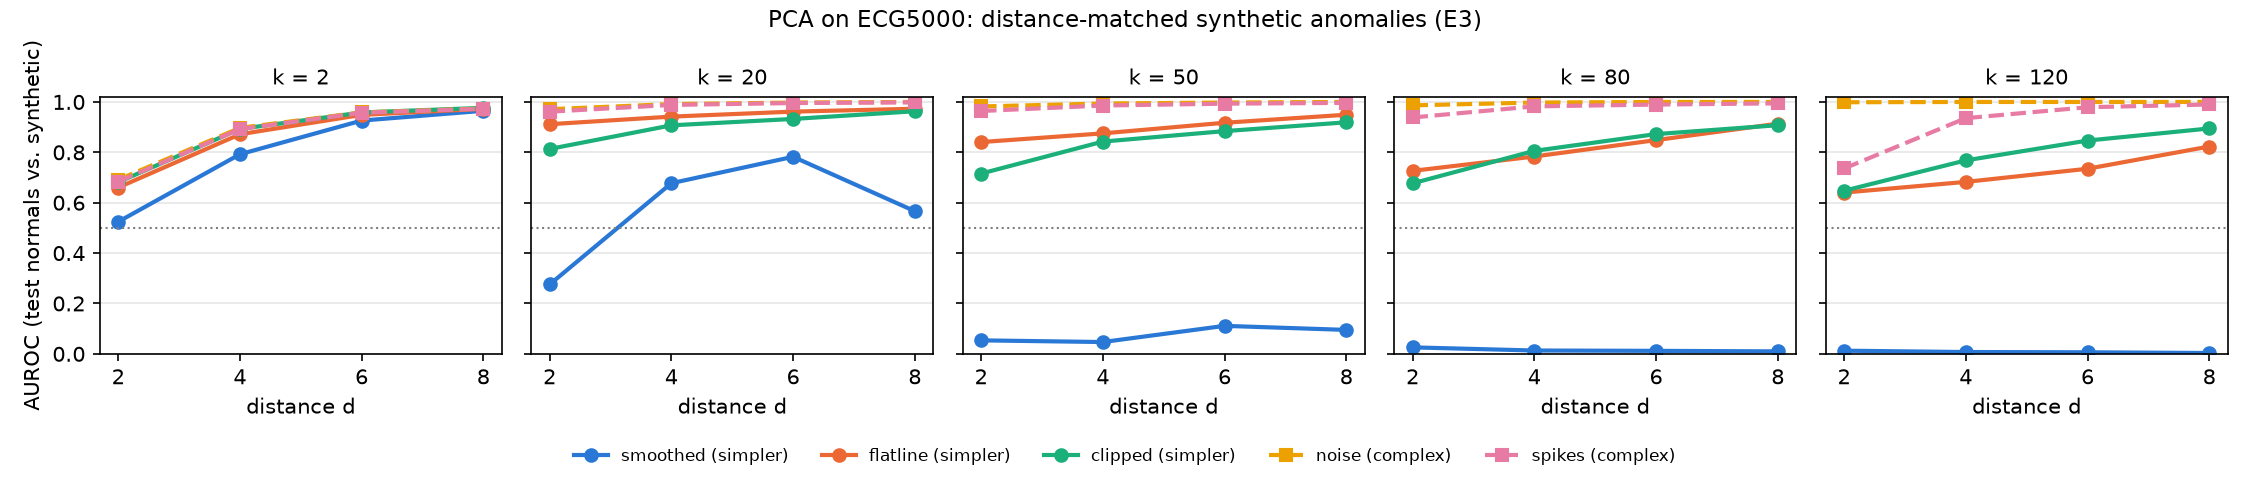
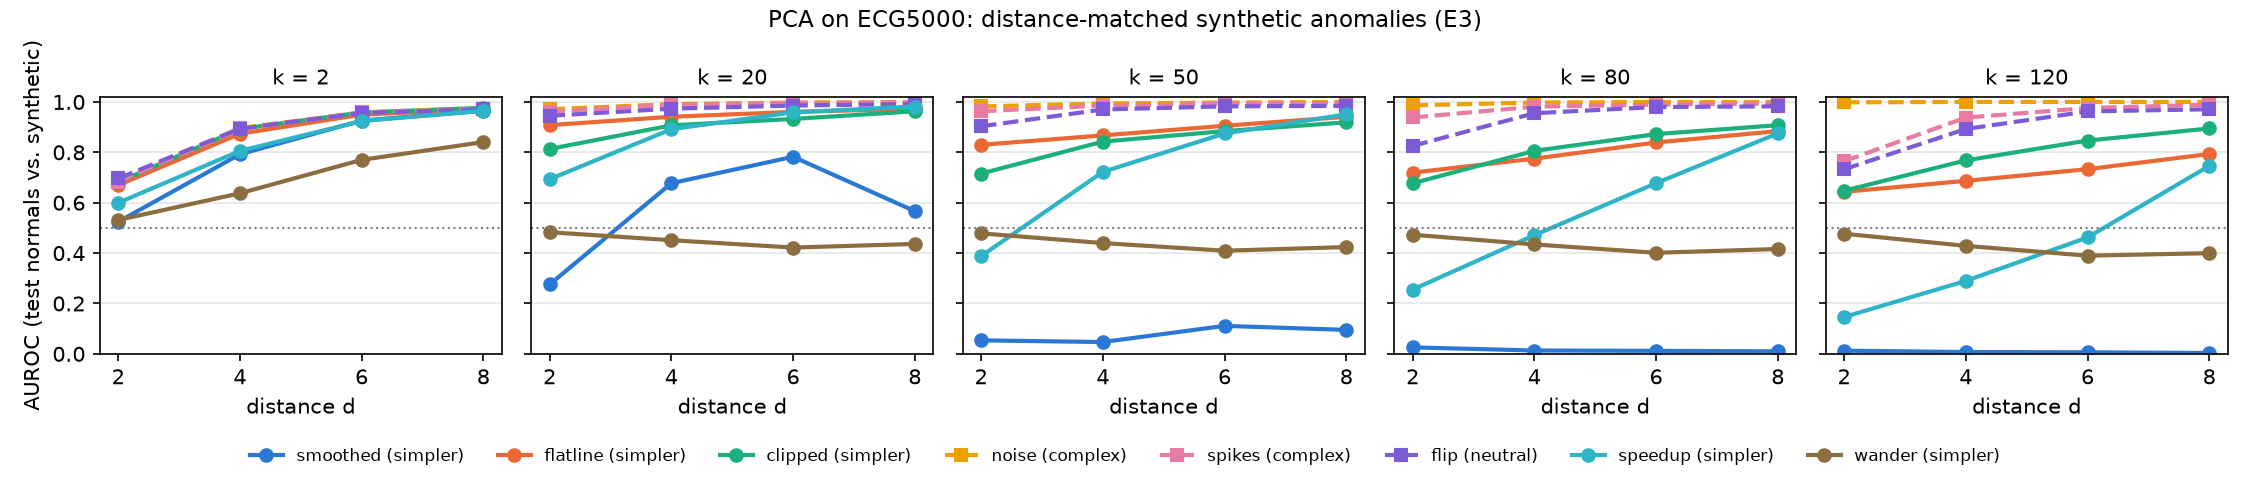
adding more anomaly type from Goswami et al

diff --git a/src/anomalies.py b/src/anomalies.py
@@ -8,13 +8,22 @@ Simpler types remove structure, complex types add it:
     clipped  : main peak clipped at the (1 - a) quantile                simpler
     noise    : additive Gaussian noise, a = noise scale                 complex
     spikes   : 3 narrow pulses of height a                              complex
+    flip     : the central fraction a of the beat reversed in time      neutral
+    speedup  : beat squeezed in time around its main peak by 1 + a      simpler
+    wander   : linear baseline drift of total rise a                    simpler
+
+flip, speedup and wander follow Goswami et al. (ICLR 2023), who inject each
+anomaly over whole cycles; one beat is one cycle here, so ours change whole
+beats. Their scale and contextual (a*x + b) types are left out: renormalizing
+a whole beat undoes any a*x + b exactly, so they only make sense on part of a beat.
 
 For ECG5000 every anomaly is renormalized to its source beat's mean and std,
 so it can't be detected by scale. For each beat we bisect on `a` until the
 distance d = ||x_anom - x|| hits a target in DISTANCES, so every type covers
 the same distances. Random parts (noise vector, spike positions, flatline
 centre) are drawn once per beat and type, so the distance levels differ only
-in strength.
+in strength. Each type has its own random stream, so adding a type doesn't
+change the others.
 
     python src/anomalies.py    # generate from ECG5000 test normals and summarize
 """
@@ -58,6 +67,30 @@ def spikes(x, a, aux):
     return x + a * (signs * np.exp(-0.5 * (t - positions) ** 2)).sum(axis=1)
 
 
+def flip(x, a, aux):
+    # a = 1 reverses the whole beat (Goswami's flip). Smaller a reverses a
+    # central segment of length a * L, with blended edges as in flatline.
+    i = np.arange(len(x))
+    c = (len(x) - 1) / 2
+    w = np.clip(a * len(x) / 2 + 0.5 - np.abs(i - c), 0, 1)
+    return (1 - w) * x + w * x[::-1]
+
+
+def speedup(x, a, aux):
+    # Resample at peak + (t - peak) * (1 + a): the beat gets narrower around
+    # its main peak and the ends are padded with the edge values. The main
+    # peak is usually the dip at the start, so this leaves a flat tail, which
+    # measures as simpler.
+    t = np.arange(len(x))
+    peak = np.argmax(np.abs(x - np.median(x)))
+    return np.interp(peak + (t - peak) * (1 + a), t, x)
+
+
+def wander(x, a, aux):
+    # aux = +1 or -1 picks a rising or falling baseline
+    return x + aux * a * np.linspace(0, 1, len(x))
+
+
 # name -> (generator, direction, max strength, draw random aux from (rng, L))
 TYPES = {
     "smoothed": (smoothed, "simpler", 40.0, lambda rng, L: None),
@@ -67,6 +100,9 @@ TYPES = {
     "spikes": (spikes, "complex", 50.0,
                lambda rng, L: (rng.choice(np.arange(3, L - 3), N_SPIKES, replace=False),
                                rng.choice([-1.0, 1.0], N_SPIKES))),
+    "flip": (flip, "neutral", 1.0, lambda rng, L: None),
+    "speedup": (speedup, "simpler", 1.0, lambda rng, L: None),
+    "wander": (wander, "simpler", 20.0, lambda rng, L: rng.choice([-1.0, 1.0])),
 }
 
 
@@ -107,12 +143,12 @@ def generate(X, types=tuple(TYPES), distances=DISTANCES, renorm=True, seed=0):
     Returns a dict of arrays: X, source (row index into the input), anomaly_type,
     direction, distance (target), dial (matched strength).
     """
-    rng = np.random.default_rng(seed)
+    rngs = {name: np.random.default_rng([seed, list(TYPES).index(name)]) for name in types}
     out = {k: [] for k in ["X", "source", "anomaly_type", "direction", "distance", "dial"]}
     for i, x in enumerate(X):
         for name in types:
             gen, direction, a_max, draw = TYPES[name]
-            aux = draw(rng, len(x))
+            aux = draw(rngs[name], len(x))
             for d in distances:
                 match = match_distance(x, gen, aux, d, a_max, renorm)
                 if match is None:

diff --git a/src/pca_model.py b/src/pca_model.py
@@ -26,7 +26,7 @@ FIGURES_DIR = ROOT / "results" / "figures"
 KS = [1, 2, 3, 5, 8, 12, 20, 30, 50, 80, 120]
 E3_PANELS = [2, 20, 50, 80, 120]  # k values shown in the E3 figure
 # Default categorical palette, fixed order; line style also marks the direction
-TYPE_COLORS = ["#2a78d6", "#eb6834", "#1baf7a", "#eda100", "#e87ba4"]
+TYPE_COLORS = ["#2a78d6", "#eb6834", "#1baf7a", "#eda100", "#e87ba4", "#7d5bd6", "#2fb3c7", "#8c6d3f"]
 # One blue ramp, light -> dark = simplest -> most complex quartile
 QUARTILE_COLORS = ["#86b6ef", "#3987e5", "#1c5cab", "#0d366b"]
 

diff --git a/src/vae_plots.py b/src/vae_plots.py
@@ -7,7 +7,7 @@ import anomalies
 from vae import SCORES
 
 # Default categorical palette, fixed order
-PALETTE = ["#2a78d6", "#eb6834", "#1baf7a", "#eda100", "#e87ba4"]
+PALETTE = ["#2a78d6", "#eb6834", "#1baf7a", "#eda100", "#e87ba4", "#7d5bd6", "#2fb3c7", "#8c6d3f"]
 PCA_COLOR = "0.45"
 
 
